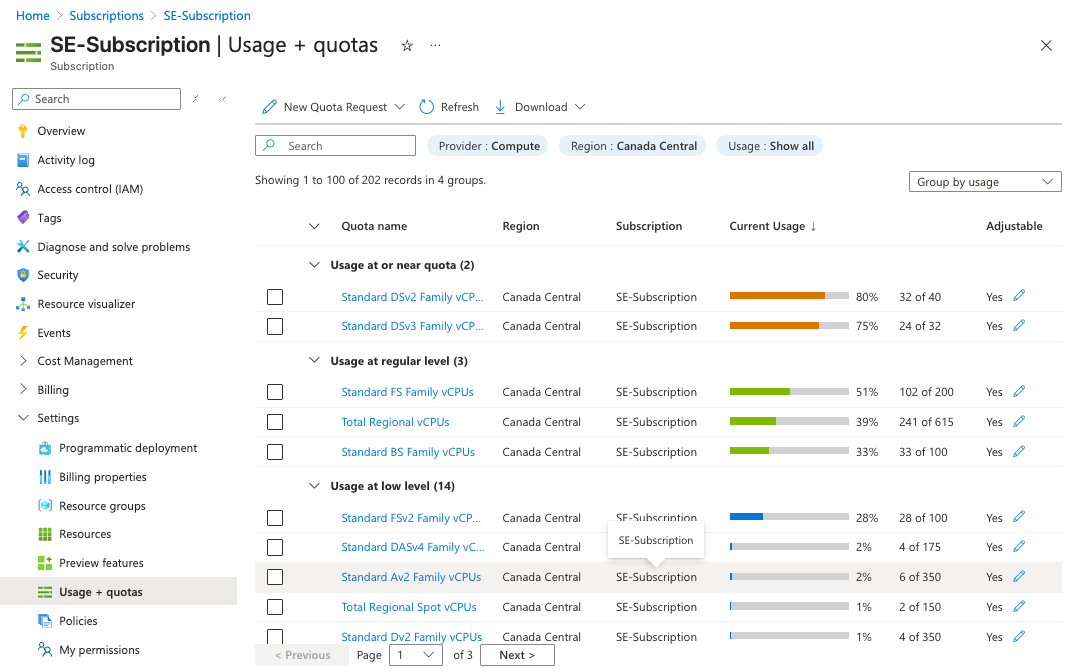
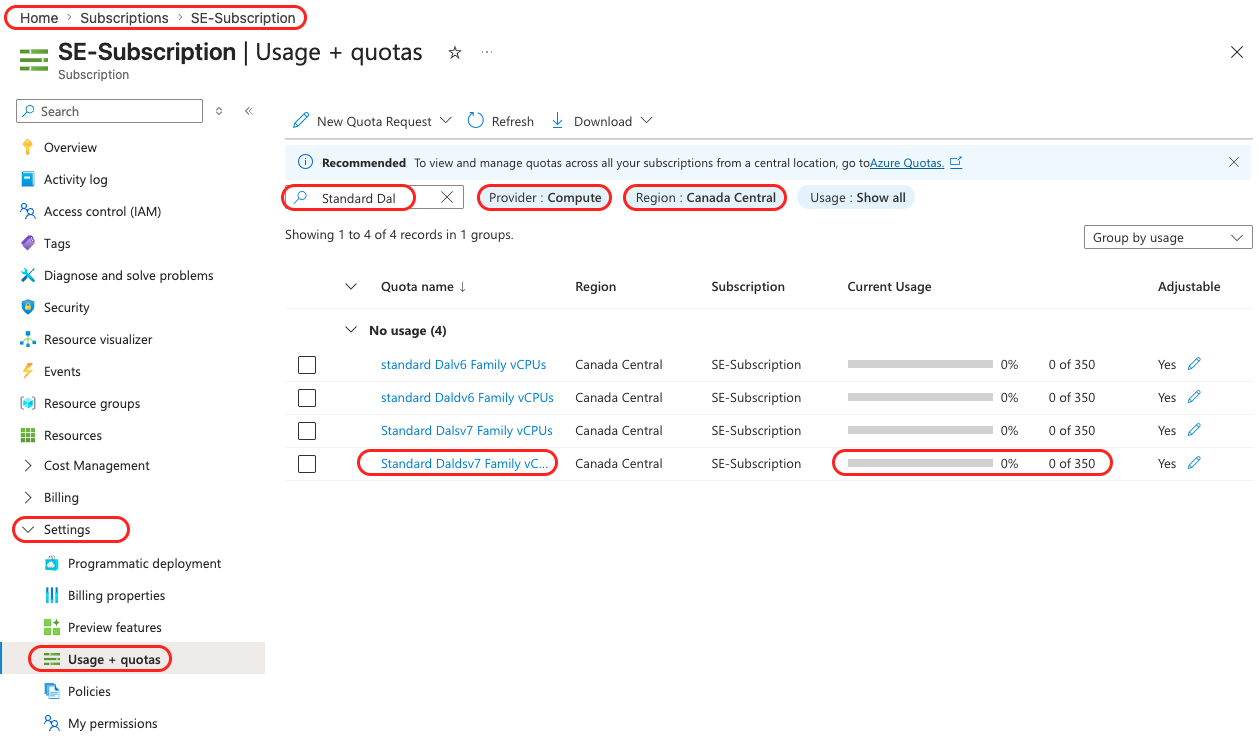
Initial version

diff --git a/az-102-prep/README.md b/az-102-prep/README.md
@@ -33,7 +33,7 @@ By the end of this lab, you will have:
 
 1. In the Azure Portal, click on **"Subscriptions"** in the left navigation menu
    - If you don't see it, click on **"All services"** and search for **"Subscriptions"**
-2. Note which subscription you'll be using for this bootcamp
+2. Note which subscription you'll be using for this workshop
 3. **Important**: Ensure you're NOT using a production subscription
 
 ### 1.3 Check Subscription Type
@@ -65,7 +65,7 @@ By the end of this lab, you will have:
 ### 2.1 Navigate to Usage + Quotas
 
 1. In your subscription overview, click on **"Settings > Usage + quotas"** in the left menu
-2. Set the **Provider filter** to **"Microsoft.Compute"**
+2. Set the **Provider filter** to **"Compute"**
 3. Set the **Location filter** to **"Canada Central"**
 
 ### 2.2 Verify Required Quotas